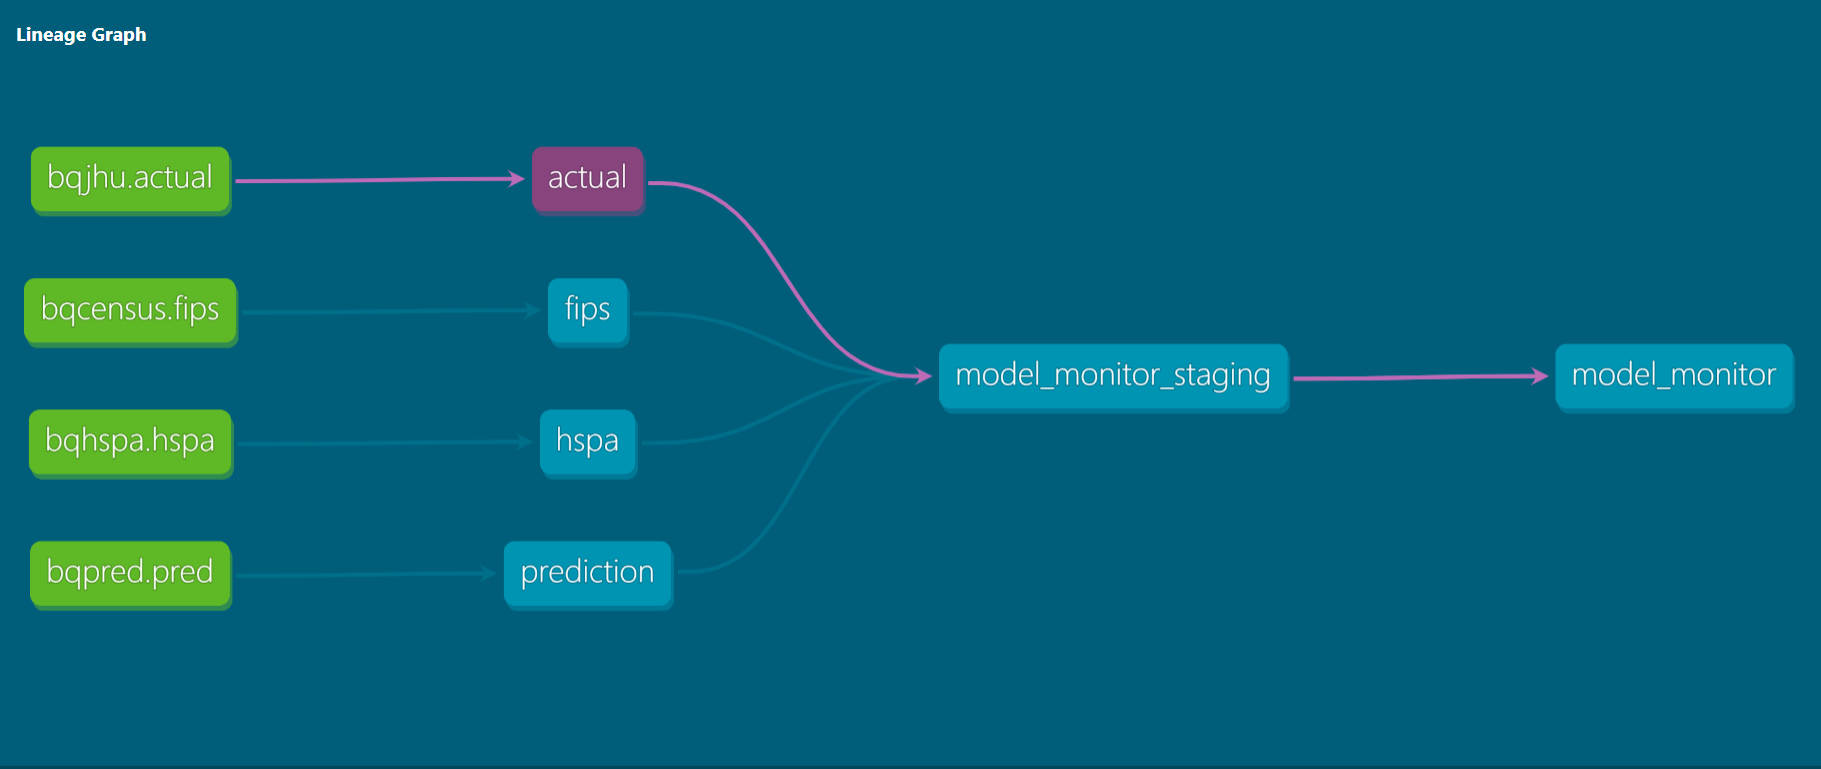
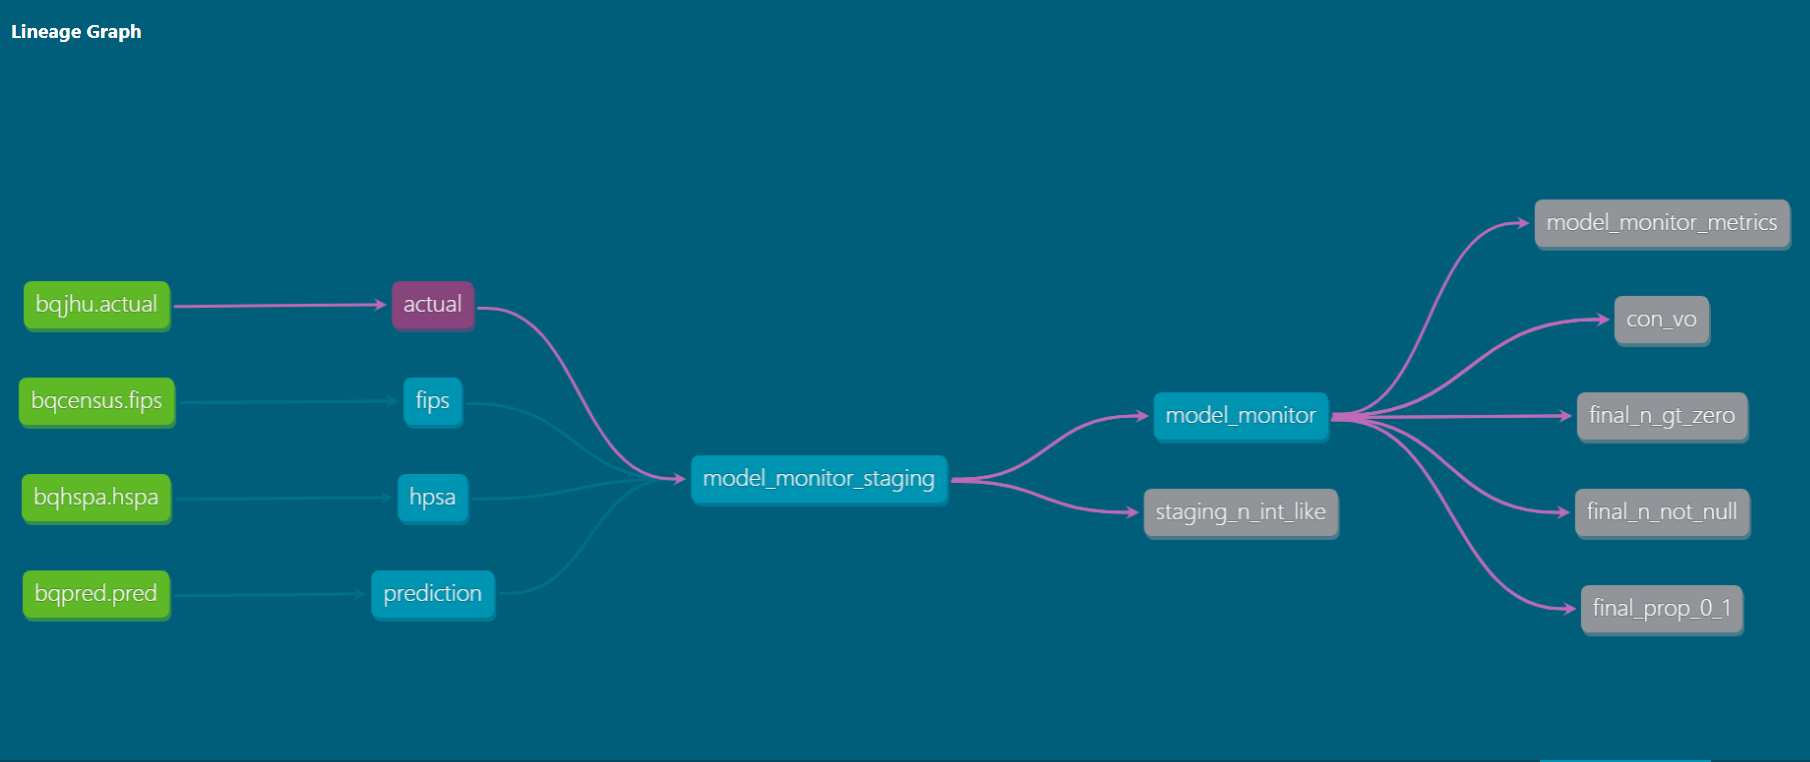
fix hpsa typos

diff --git a/content/post/convo-dbt/index.md b/content/post/convo-dbt/index.md
@@ -2,7 +2,7 @@
 output: hugodown::md_document
 title: "Embedding controlled vocabularies in data pipelines with dbt"
 subtitle: ""
-summary: "dbt supercharges SQL with Jinja templating, macros, and testing -- all of which can be customized to enforce data controlled vocabularies and their implied contracts"
+summary: "dbt supercharges SQL with Jinja templating, macros, and testing -- all of which can be customized to enforce controlled vocabularies and their implied contracts on a data model"
 authors: []
 tags: [data, sql]
 categories: [data, sql]
@@ -26,7 +26,7 @@ image:
 #   E.g. `projects = ["internal-project"]` references `content/project/deep-learning/index.md`.
 #   Otherwise, set `projects = []`.
 projects: [""]
-rmd_hash: 3251de94298eeecd
+rmd_hash: 56180f8120e17ba9
 
 ---
 
@@ -81,7 +81,7 @@ Additional `dbt` features include:
 -   Orchestration of SQL statements in the DAG
 -   Hooks for rote database management tasks like adding indices and keys or granting access
 
-For a general overview to `dbt`, check out the [introductory tutorial](https://docs.getdbt.com/tutorial/setting-up) on their website, the [dbt101 presentation](https://www.getdbt.com/coalesce/agenda/dbt-101-eu-and-us-friendly) from their recent Coalesce conference[^2], or the interview with one of their founds on the [Data Engineering Today](https://open.spotify.com/episode/1gKKgR8eZgdqdXztFGGkFe) podcast.
+For a general overview to `dbt`, check out the [introductory tutorial](https://docs.getdbt.com/tutorial/setting-up) on their website, the [dbt101 presentation](https://www.getdbt.com/coalesce/agenda/dbt-101-eu-and-us-friendly) from their recent Coalesce conference[^2], or the interview with one of their founders on the [Data Engineering Today](https://open.spotify.com/episode/1gKKgR8eZgdqdXztFGGkFe) podcast.
 
 In this post, I'll demonstrate how three features of `dbt` can be used to implement a rigorous controlled vocabulary by:
 
@@ -157,8 +157,8 @@ Our goal is to end up with a `model_monitor` table with one record per `observat
 -   `NM_(COUNTY|STATE)`: Human-readable county/state names-
 -   `DT_COUNTY`: The date a county's values are observed
 -   `N_(CASE|HOSP|DEATH)_(ACTL|PRED)_(07|14|21|28)`: The actual or predicted number of cases, hospitalizations, or deaths (and, for predictions only, the value of these predictions at 7, 14, 21, and 28 days prior to the day being forecasted)
--   `IND_COUNTY_HSPA`: Indicator of whether county is considered a shortage area
--   `PROP_COUNTY_HSPA`: Proportion of population that is underserved in a designated shortage area
+-   `IND_COUNTY_HPSA`: Indicator of whether county is considered a shortage area
+-   `PROP_COUNTY_HPSA`: Proportion of population that is underserved in a designated shortage area
 
 We will source these fields from four tables:
 
@@ -171,7 +171,7 @@ We will source these fields from four tables:
     -   one record per `date prediction was made` x `data being predicted` x `county` (initially)
     -   fields for county code, observation date, prediction date, predicted number of cases and deaths
     -   we transform to one record per `observation date` x `county` with observations at different time lags represented as separate fields
--   `hspa` table
+-   `hpsa` table
     -   sourced from `bigquery-public-data`.`sdoh_hrsa_shortage_areas`.`hpsa_primary_care`
     -   (after some wrangling on our end) one record per `county` for counties identified as having a shortage
     -   fields for the county code, date of designation, proportion of county under-served
@@ -188,7 +188,7 @@ For a conceptual mental map, once all the wrangling and cleaning is done for eac
         left join
       predictions using (cd_county, dt_county)
         left join
-      hspa using (cd_county)
+      hpsa using (cd_county)
         left join
       fips using (cd_county)
 
@@ -199,7 +199,7 @@ Variable Creation with Jinja Templating
 
 `dbt` makes it easy to create typo-free variable names that adhere to our controlled vocabulary by using the Jinja templating language.[^4] Jinja brings traditional control-flow elements like conditional statements and loops to make SQL more programmatic. When `dbt` is executed with `dbt run`, it first renders this Jinja to standard SQL before sending the query to the database.
 
-Templates, and specifically loops, help write more concise and proof-readable SQL code when deriving a large number of variables with similar logic. For example, below we collapse the raw prediction data (which is represented as one record for `each county` x `each day being prediction` x `each day a prediction was made`) to one record for each county and each day being predicted with different columns containing the numeric value of each prediction of cases, hospitalizations, and deaths at `lags` (defined in the `dbt_project.yml` file) of 7, 14, 21, and 28 days prior to the date being predicted.
+Templates, and specifically loops, help write more concise and proof-readable SQL code when deriving a large number of variables with similar logic. For example, below we collapse the raw prediction data (which is represented as one record for `each county` x `each day being prediction` x `each day a prediction was made`) to one record for each county and each day being predicted with different columns containing the numeric value of each prediction of cases, hospitalizations, and deaths at `lags` (defined in the `dbt_project.yml` configuration file) of 7, 14, 21, and 28 days prior to the date being predicted.
 
 Ordinarily, deriving these 12 variables (3 measures x 4 lags) would pose significant room for typos in either the code or the variable names, but in this script, the Jinja template of `n_case_pred_{{l}}` ensures consistency.
 
@@ -239,7 +239,94 @@ group by 1,2,3
 
 </div>
 
-This script and the other three that derive our base tables (`actual`, `prediction`, `fips`, and `hspa`) can be found in [the `models` directory](https://github.com/emilyriederer/dbt-convo-covid/tree/main/models) of the repo. After they are individually created, they are combined into the `model_monitor_staging` table in the relatively uninteresting [script](https://github.com/emilyriederer/dbt-convo-covid/blob/main/models/model_monitor_staging.sql) of the same name.
+This script renders to the following:
+
+<div class="highlight">
+
+<pre class='chroma'><code class='language-r' data-lang='r'>
+
+select
+  county_fips_code || ' ' || forecast_date as id,
+  county_fips_code as cd_county,
+  forecast_date as dt_county,
+  
+    max(if(date_diff(prediction_date, forecast_date, day) = 07, 
+         round(100*new_confirmed, 0), null)) as n_case_pred_07,
+    max(if(date_diff(prediction_date, forecast_date, day) = 07, 
+         round(100*hospitalized_patients, 0), null)) as n_hosp_pred_07,
+    max(if(date_diff(prediction_date, forecast_date, day) = 07, 
+         round(100*new_deaths, 0), null)) as n_death_pred_07
+  ,
+  
+    max(if(date_diff(prediction_date, forecast_date, day) = 14, 
+         round(100*new_confirmed, 0), null)) as n_case_pred_14,
+    max(if(date_diff(prediction_date, forecast_date, day) = 14, 
+         round(100*hospitalized_patients, 0), null)) as n_hosp_pred_14,
+    max(if(date_diff(prediction_date, forecast_date, day) = 14, 
+         round(100*new_deaths, 0), null)) as n_death_pred_14
+  ,
+  
+    max(if(date_diff(prediction_date, forecast_date, day) = 21, 
+         round(100*new_confirmed, 0), null)) as n_case_pred_21,
+    max(if(date_diff(prediction_date, forecast_date, day) = 21, 
+         round(100*hospitalized_patients, 0), null)) as n_hosp_pred_21,
+    max(if(date_diff(prediction_date, forecast_date, day) = 21, 
+         round(100*new_deaths, 0), null)) as n_death_pred_21
+  ,
+  
+    max(if(date_diff(prediction_date, forecast_date, day) = 28, 
+         round(100*new_confirmed, 0), null)) as n_case_pred_28,
+    max(if(date_diff(prediction_date, forecast_date, day) = 28, 
+         round(100*hospitalized_patients, 0), null)) as n_hosp_pred_28,
+    max(if(date_diff(prediction_date, forecast_date, day) = 28, 
+         round(100*new_deaths, 0), null)) as n_death_pred_28
+  
+  
+from `bigquery-public-data`.`covid19_public_forecasts`.`county_28d_historical`
+where 
+  cast(left(county_fips_code, 2) as int64) between 1 and 56 and
+  forecast_date <= current_date()
+  
+group by 1,2,3
+</code></pre>
+
+</div>
+
+This script and the other three that derive our base tables (`actual`, `prediction`, `fips`, and `hpsa`) can be found in [the `models` directory](https://github.com/emilyriederer/dbt-convo-covid/tree/main/models) of the repo. After they are individually created, they are combined into the `model_monitor_staging` table in the relatively uninteresting [script](https://github.com/emilyriederer/dbt-convo-covid/blob/main/models/model_monitor_staging.sql):
+
+<div class="highlight">
+
+<pre class='chroma'><code class='language-r' data-lang='r'>{{
+    config(
+        materialized='incremental',
+        unique_key='id'
+    )
+}}
+
+select
+  actual.*,
+  prediction.* except (cd_county, dt_county, id),
+  fips.* except (cd_county),
+  hspa.* except (cd_county)
+from
+  {{ ref('actual') }} as actual
+  inner join
+  {{ ref('prediction') }} as prediction
+  using (dt_county, cd_county)
+  left join
+  {{ ref('fips') }} as fips
+  using (cd_county)
+  left join
+  {{ ref('hpsa') }} as hspa
+  using (cd_county)
+{% if is_incremental() %}
+where dt_county >= (
+  select dateadd(day, -7, max(dt_county)) from {{this}}
+  )
+{% endif %}
+</code></pre>
+
+</div>
 
 Variable Manipulation with Regex Macros
 ---------------------------------------
@@ -367,7 +454,7 @@ Data Validation with Custom Tests
 
 Of course, not every contract can be made by force without risk of corrupting data. For any that we cannot enforce in their creation, we must rigorously test.
 
-`dbt` allows simple, single-column tests such as `unique`, `not_null`, and `relationship` to be implemented in the `schema.yml` configuration file. This is useful, for example, for checking the validity of the keys (e.g. `cd_county`) that connect the tables. However, even with a relatively small number of tests and columns, its cumbersome and easy to overlook a column.
+`dbt` allows simple, single-column tests such as `unique`, `not_null`, and `relationship` to be implemented in the `schema.yml` configuration file. This is useful, for example, for checking the validity of the keys (e.g. `cd_county`) that connect the tables. Tests specified under the `tests` key-value pair in the YAML for each relevant column, and can sometimes be shared across models with the YAML [`&`](https://rdrr.io/r/base/Logic.html) and [`*`](https://rdrr.io/r/base/Arithmetic.html) which allows for naming and repeating blocks (think copy-paste). However, even with a relatively small number of tests and columns, its cumbersome and easy to overlook a column.
 
 <div class="highlight">
 
@@ -379,7 +466,7 @@ sources:
     database: bigquery-public-data
     schema: sdoh_hrsa_shortage_areas
     tables:
-      - name: hspa
+      - name: hpsa
         identifier: hpsa_primary_care
   - name: bqcensus
     description: > 
@@ -424,7 +511,7 @@ models:
     description: > 
       Predicted COVID cases and deaths by county
     columns: *basetest
-  - name: hspa
+  - name: hpsa
     description: >
       Counties designated as healthcare shortage areas
     columns:
@@ -539,12 +626,32 @@ As with our `model_monitor.sql` data model, the beauty of these tests is that th
 
 The code for these tests, and a few more similar examples, are located in the [`tests/` directory](https://github.com/emilyriederer/dbt-convo-covid/tree/main/tests) of the repository. They can be run on the command line with the `dbt test` command.
 
-Data Wranging with Jinja Templates
-----------------------------------
+Sample Output
+-------------
 
-Although this post primarily focuses on uses of dbt to help data producers apply controlled vocabularies, dbt also provides an interesting framework for transitioning projects to data consumers with the use of their [Analyses](https://docs.getdbt.com/docs/building-a-dbt-project/analyses) feature. Analyses are additional SQL script templates that are not sent to the database to produce tables or views.Instead, running `dbt compile` simply renders these scripts for use in an analytical setting.
+To conclude, I show a few top rows of output from the final model monitoring table:
 
-For example, the following script uses our published table to compute the percent difference between actual observations and each prediction.
+<div class="highlight">
+
+<pre class='chroma'><code class='language-r' data-lang='r'>select * 
+from dbt_emily.model_monitor
+limit 5
+</code></pre>
+
+</div>
+
+<div class="highlight">
+
+<table style="width:100%;"><colgroup><col style="width: 3%" /><col style="width: 3%" /><col style="width: 5%" /><col style="width: 2%" /><col style="width: 3%" /><col style="width: 2%" /><col style="width: 3%" /><col style="width: 3%" /><col style="width: 4%" /><col style="width: 4%" /><col style="width: 4%" /><col style="width: 4%" /><col style="width: 4%" /><col style="width: 4%" /><col style="width: 4%" /><col style="width: 4%" /><col style="width: 4%" /><col style="width: 4%" /><col style="width: 4%" /><col style="width: 4%" /><col style="width: 4%" /><col style="width: 5%" /><col style="width: 4%" /></colgroup><thead><tr class="header"><th style="text-align: left;">cd_county</th><th style="text-align: left;">dt_county</th><th style="text-align: left;">id</th><th style="text-align: left;">cd_state</th><th style="text-align: left;">nm_county</th><th style="text-align: left;">nm_state</th><th style="text-align: right;">n_case_actl</th><th style="text-align: right;">n_death_actl</th><th style="text-align: right;">n_case_pred_07</th><th style="text-align: right;">n_hosp_pred_07</th><th style="text-align: right;">n_death_pred_07</th><th style="text-align: right;">n_case_pred_14</th><th style="text-align: right;">n_hosp_pred_14</th><th style="text-align: right;">n_death_pred_14</th><th style="text-align: right;">n_case_pred_21</th><th style="text-align: right;">n_hosp_pred_21</th><th style="text-align: right;">n_death_pred_21</th><th style="text-align: right;">n_case_pred_28</th><th style="text-align: right;">n_hosp_pred_28</th><th style="text-align: right;">n_death_pred_28</th><th style="text-align: left;">dt_county_hpsa</th><th style="text-align: right;">prop_county_hpsa</th><th style="text-align: right;">ind_county_hpsa</th></tr></thead><tbody><tr class="odd"><td style="text-align: left;">01007</td><td style="text-align: left;">2021-01-05</td><td style="text-align: left;">2021-01-05 01007</td><td style="text-align: left;">01</td><td style="text-align: left;">Bibb County</td><td style="text-align: left;">Alabama</td><td style="text-align: right;">1923</td><td style="text-align: right;">46</td><td style="text-align: right;">1595</td><td style="text-align: right;">1236</td><td style="text-align: right;">43</td><td style="text-align: right;">1576</td><td style="text-align: right;">1239</td><td style="text-align: right;">43</td><td style="text-align: right;">1562</td><td style="text-align: right;">1233</td><td style="text-align: right;">43</td><td style="text-align: right;">1550</td><td style="text-align: right;">1224</td><td style="text-align: right;">42</td><td style="text-align: left;">1978-05-20</td><td style="text-align: right;">0.29</td><td style="text-align: right;">1</td></tr><tr class="even"><td style="text-align: left;">01007</td><td style="text-align: left;">2021-01-12</td><td style="text-align: left;">2021-01-12 01007</td><td style="text-align: left;">01</td><td style="text-align: left;">Bibb County</td><td style="text-align: left;">Alabama</td><td style="text-align: right;">2090</td><td style="text-align: right;">48</td><td style="text-align: right;">2583</td><td style="text-align: right;">1325</td><td style="text-align: right;">62</td><td style="text-align: right;">2986</td><td style="text-align: right;">1481</td><td style="text-align: right;">70</td><td style="text-align: right;">3306</td><td style="text-align: right;">1683</td><td style="text-align: right;">80</td><td style="text-align: right;">3542</td><td style="text-align: right;">1903</td><td style="text-align: right;">90</td><td style="text-align: left;">1978-05-20</td><td style="text-align: right;">0.29</td><td style="text-align: right;">1</td></tr><tr class="odd"><td style="text-align: left;">01007</td><td style="text-align: left;">2021-01-04</td><td style="text-align: left;">2021-01-04 01007</td><td style="text-align: left;">01</td><td style="text-align: left;">Bibb County</td><td style="text-align: left;">Alabama</td><td style="text-align: right;">1885</td><td style="text-align: right;">46</td><td style="text-align: right;">1344</td><td style="text-align: right;">1179</td><td style="text-align: right;">27</td><td style="text-align: right;">1680</td><td style="text-align: right;">1164</td><td style="text-align: right;">27</td><td style="text-align: right;">1905</td><td style="text-align: right;">1232</td><td style="text-align: right;">28</td><td style="text-align: right;">2053</td><td style="text-align: right;">1349</td><td style="text-align: right;">31</td><td style="text-align: left;">1978-05-20</td><td style="text-align: right;">0.29</td><td style="text-align: right;">1</td></tr><tr class="even"><td style="text-align: left;">01007</td><td style="text-align: left;">2021-01-24</td><td style="text-align: left;">2021-01-24 01007</td><td style="text-align: left;">01</td><td style="text-align: left;">Bibb County</td><td style="text-align: left;">Alabama</td><td style="text-align: right;">2223</td><td style="text-align: right;">48</td><td style="text-align: right;">663</td><td style="text-align: right;">1080</td><td style="text-align: right;">36</td><td style="text-align: right;">865</td><td style="text-align: right;">967</td><td style="text-align: right;">34</td><td style="text-align: right;">889</td><td style="text-align: right;">828</td><td style="text-align: right;">31</td><td style="text-align: right;">875</td><td style="text-align: right;">762</td><td style="text-align: right;">29</td><td style="text-align: left;">1978-05-20</td><td style="text-align: right;">0.29</td><td style="text-align: right;">1</td></tr><tr class="odd"><td style="text-align: left;">01007</td><td style="text-align: left;">2021-01-03</td><td style="text-align: left;">2021-01-03 01007</td><td style="text-align: left;">01</td><td style="text-align: left;">Bibb County</td><td style="text-align: left;">Alabama</td><td style="text-align: right;">1882</td><td style="text-align: right;">46</td><td style="text-align: right;">799</td><td style="text-align: right;">1126</td><td style="text-align: right;">16</td><td style="text-align: right;">1289</td><td style="text-align: right;">979</td><td style="text-align: right;">14</td><td style="text-align: right;">1591</td><td style="text-align: right;">935</td><td style="text-align: right;">14</td><td style="text-align: right;">1793</td><td style="text-align: right;">976</td><td style="text-align: right;">14</td><td style="text-align: left;">1978-05-20</td><td style="text-align: right;">0.29</td><td style="text-align: right;">1</td></tr></tbody></table>
+
+</div>
+
+Bonus - Analysis Prep with Jinja Templates
+------------------------------------------
+
+Although this post primarily focuses on uses of `dbt` to help data producers apply controlled vocabularies, dbt also provides an interesting framework for transitioning projects to data consumers with the use of their [Analyses](https://docs.getdbt.com/docs/building-a-dbt-project/analyses) feature. Analyses are additional SQL script templates that are not sent to the database to produce tables or views.Instead, running `dbt compile` simply renders these scripts for use in analyses or BI tools.
+
+For example of an "analysis", and as another example of templating in action, the following script uses our published table to compute the percent difference between actual observations and each prediction.
 
 <div class="highlight">
 
@@ -631,7 +738,7 @@ from `sonorous-wharf-302611`.`dbt_emily`.`model_monitor` as mm
 
 [^4]: For another exploration of using Jinja templating to generate SQL, check out this nice [blog post](https://multithreaded.stitchfix.com/blog/2017/07/06/one-weird-trick/) from Stitch Fix
 
-[^5]: Ordinarily, we would want to be careful setting null values to 0. We would not want to lie and imply the existence of missing data to nominally uphold a contract. However, this is the correct approach here. Our indicator variables in this case come from tables which only contain the `1` or "presence" values (e.g. the `hspa` relation which provides `ind_county_hpsa` only has records for counties which are shortage areas) so this is a safe approach.
+[^5]: Ordinarily, we would want to be careful setting null values to 0. We would not want to lie and imply the existence of missing data to nominally uphold a contract. However, this is the correct approach here. Our indicator variables in this case come from tables which only contain the `1` or "presence" values (e.g. the `hpsa` relation which provides `ind_county_hpsa` only has records for counties which are shortage areas) so this is a safe approach.
 
 [^6]: In fact, this could also be a macro, as I introduce before, and shipped in a package to apply across all data models in an analytical database. To make the narrative of this example easier to follow, I leave it as a standard query model.
 
